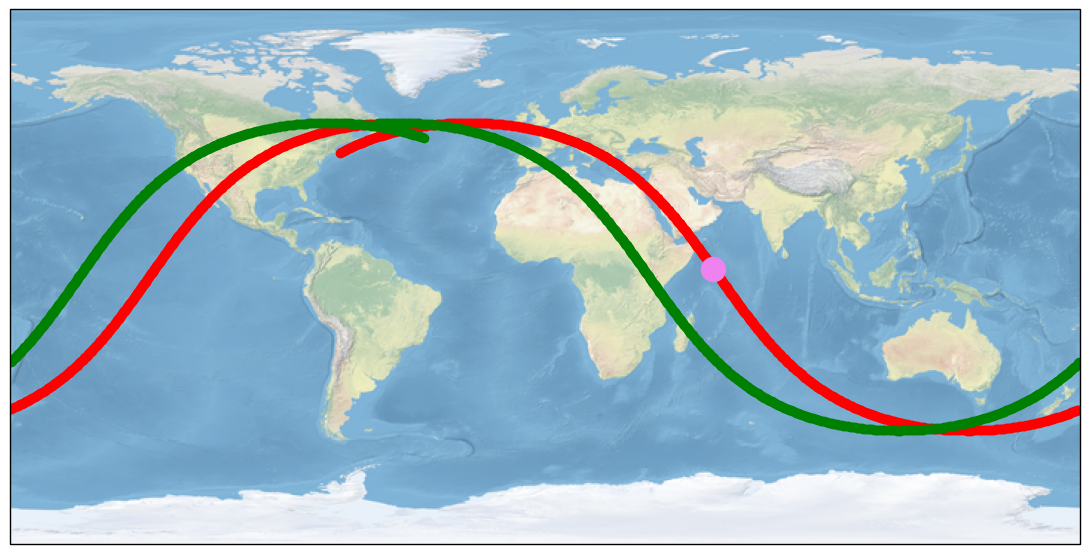
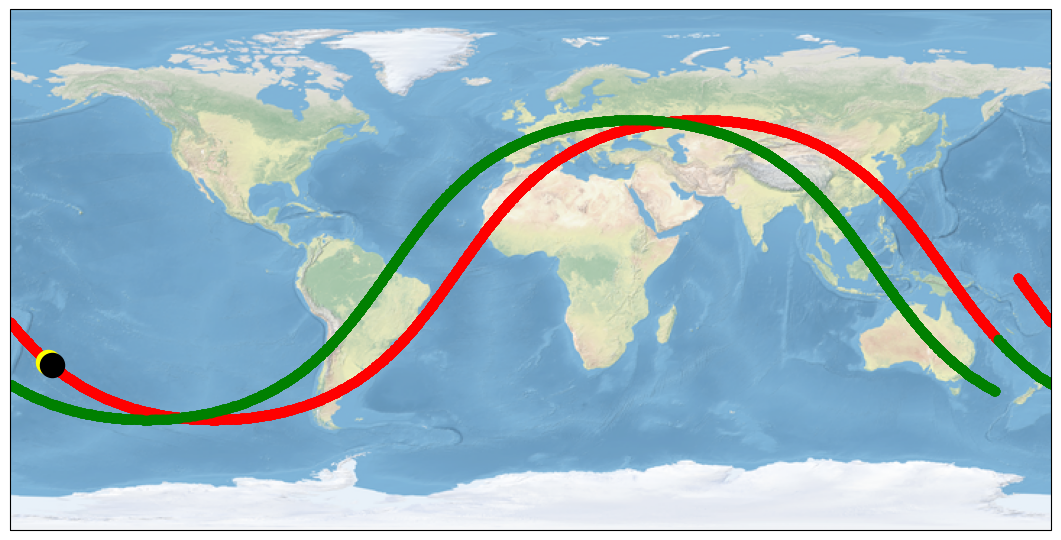
removed files not req

diff --git a/app/routes.py b/app/routes.py
@@ -1,5 +1,5 @@
 from app import app
-from .service import satellitesData,issData
+from .service import satellitesData,issData,iss_crewDragon
 from flask import jsonify,url_for,send_file
 
 @app.route('/satdata/topview/json')
@@ -42,3 +42,7 @@ def starlinkjson():
 def disp():
     resp = send_file('../issimg.png',mimetype='image/png')
     return resp
+
+@app.route('/cd')
+def cd_issMap():
+    iss_crewDragon.getMap()
